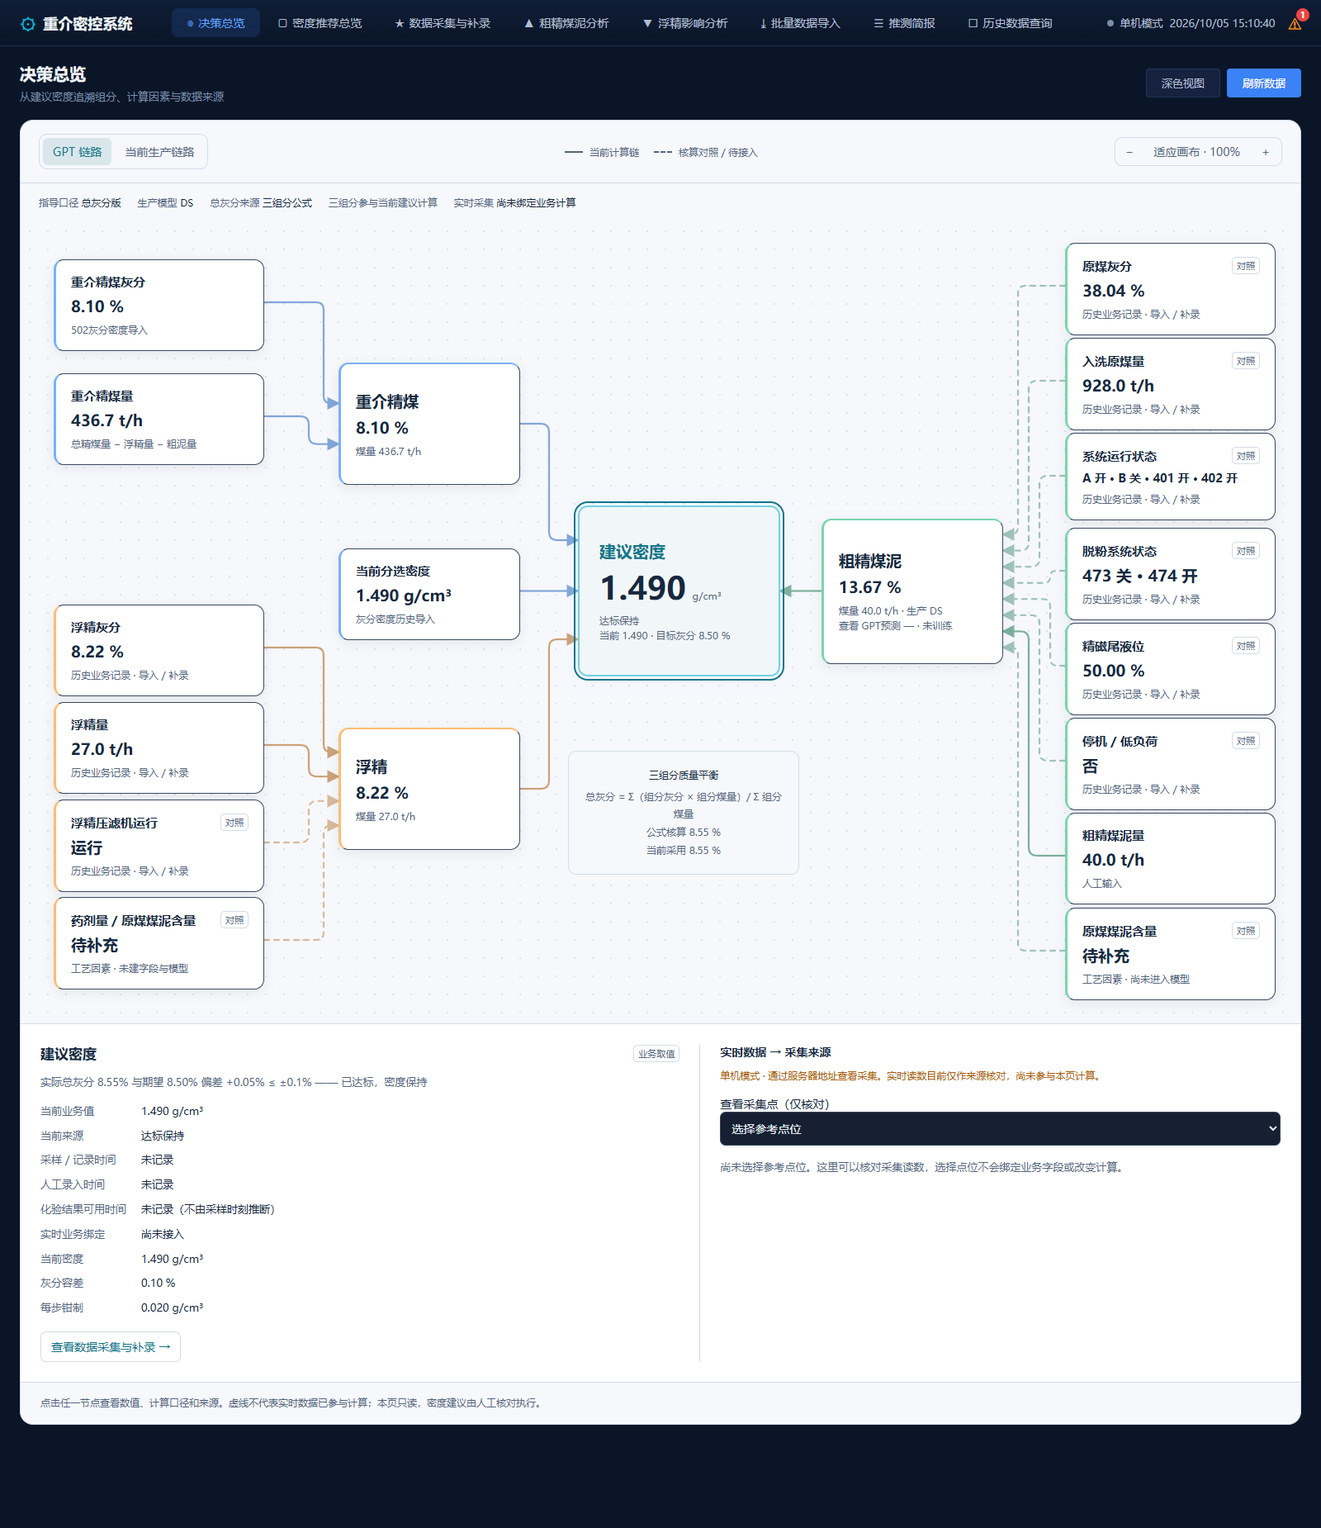
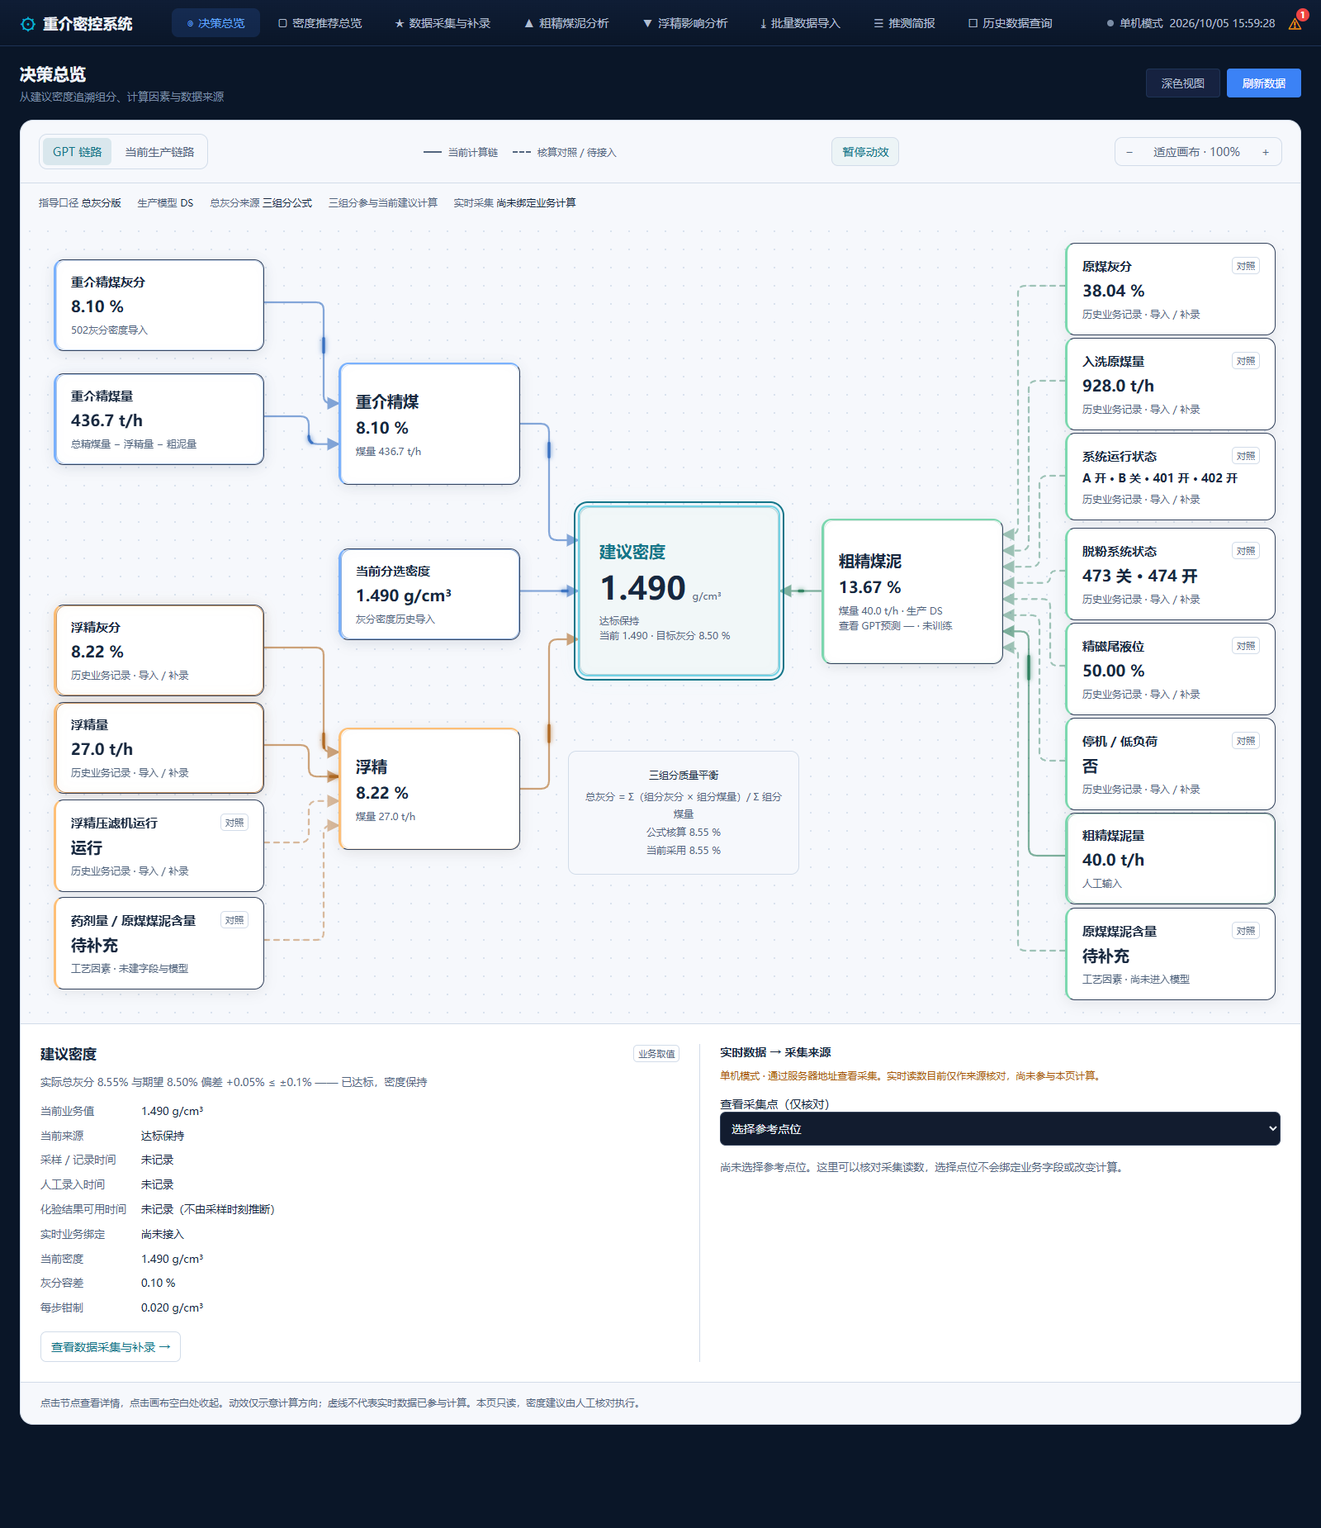
feat: add decision flow motion and canvas dismissal

diff --git a/frontend/js/decision-overview.js b/frontend/js/decision-overview.js
@@ -4,6 +4,7 @@ const DecisionOverviewPage = {
     pointChoices: {}, nodes: [], timer: null,
     sourceInteractionUntil: 0,
     inspectorFrame: null,
+    motionEnabled: true, motionReduced: false,
     escape(value) { return String(value ?? '').replace(/[&<>"']/g, c => ({'&':'&amp;','<':'&lt;','>':'&gt;','"':'&quot;',"'":'&#39;'}[c])); },
     number(value, digits = 2, unit = '') { return Number.isFinite(value) ? value.toFixed(digits) + (unit ? ' ' + unit : '') : '—'; },
     time(value) {
@@ -67,6 +68,13 @@ const DecisionOverviewPage = {
             const light = document.getElementById('decision-workspace').classList.toggle('is-light');
             event.currentTarget.textContent = light ? '深色视图' : '浅色视图';
         });
+        const reducedMotion = window.matchMedia('(prefers-reduced-motion: reduce)');
+        this.motionReduced = reducedMotion.matches;
+        reducedMotion.addEventListener('change', event => { this.motionReduced = event.matches; this.syncMotion(); });
+        document.getElementById('decision-motion').addEventListener('click', () => {
+            this.motionEnabled = !this.motionEnabled; this.syncMotion();
+        });
+        document.addEventListener('visibilitychange', () => this.syncMotion());
         document.querySelectorAll('[data-decision-model]').forEach(button => button.addEventListener('click', () => {
             this.view = button.dataset.decisionModel;
             document.querySelectorAll('[data-decision-model]').forEach(b => {
@@ -78,9 +86,10 @@ const DecisionOverviewPage = {
         document.getElementById('decision-fit').addEventListener('click', () => { this.zoom = null; this.fit(); });
         document.getElementById('decision-zoom-in').addEventListener('click', () => this.changeZoom(.15));
         document.getElementById('decision-zoom-out').addEventListener('click', () => this.changeZoom(-.15));
-        document.getElementById('decision-board').addEventListener('click', event => {
+        document.getElementById('decision-canvas-scroll').addEventListener('click', event => {
             const node = event.target.closest('[data-decision-node]');
-            if (node) this.select(node.dataset.decisionNode);
+            if (node) { this.select(node.dataset.decisionNode); return; }
+            if (!event.target.closest('.decision-formula,button,a,input,select,textarea,label,[contenteditable="true"]')) this.closeInspector(false);
         });
         document.getElementById('decision-inspector').addEventListener('change', event => {
             if (event.target.id === 'decision-source-point') {
@@ -97,7 +106,7 @@ const DecisionOverviewPage = {
         document.getElementById('decision-inspector').addEventListener('click', event => {
             if (event.target.closest('[data-decision-close]')) { this.closeInspector(); return; }
             const link = event.target.closest('[data-decision-page]');
-            if (link) { this.closeInspector(false); App.goToPage(link.dataset.decisionPage); }
+            if (link) { this.closeInspector(false); App.goToPage(link.dataset.decisionPage); this.syncMotion(); }
         });
         document.addEventListener('keydown', event => {
             if (event.key === 'Escape' && this.active()) this.closeInspector();
@@ -108,6 +117,7 @@ const DecisionOverviewPage = {
         document.querySelector('.main-nav').addEventListener('click', event => {
             const page = event.target.closest('[data-page]')?.dataset.page;
             if (page && page !== 'page-decision') this.closeInspector(false);
+            this.syncMotion();
         });
         window.addEventListener('resize', () => { if (this.active()) this.fit(); });
         // Reuse Operations' existing polling snapshot; never start a second API poll.
@@ -118,6 +128,7 @@ const DecisionOverviewPage = {
     },
     refresh() {
         if (!this.initialized) return;
+        this.syncMotion();
         if (!this.active()) { this.closeInspector(false); return; }
         const focused = document.activeElement?.dataset?.decisionNode;
         const sourceFocused = document.activeElement?.id === 'decision-source-point';
@@ -221,6 +232,15 @@ const DecisionOverviewPage = {
         this.queueInspectorPosition(true);
     },
     changeZoom(delta) { this.zoom = Math.max(.65, Math.min(1.5, (this.actualZoom || 1) + delta)); this.fit(); },
+    syncMotion() {
+        const button = document.getElementById('decision-motion');
+        if (!button) return;
+        document.getElementById('decision-workspace').classList.toggle('is-motion-paused', !this.motionEnabled || this.motionReduced || document.hidden || !this.active());
+        button.disabled = this.motionReduced;
+        button.textContent = this.motionReduced ? '静态视图' : this.motionEnabled ? '暂停动效' : '开启动效';
+        button.setAttribute('aria-pressed',String(this.motionEnabled && !this.motionReduced));
+        button.title = this.motionReduced ? '已按系统的减少动态效果设置显示静态视图' : '动效示意计算方向，不代表实时采集正在更新';
+    },
 
     buildNodes(s) {
         const n = (id,title,value,source,description,extra = {}) => ({id,title,value,source,description,unit:'',sampleAt:null,enteredAt:null,...extra});
@@ -363,17 +383,24 @@ const DecisionOverviewPage = {
         const ancestorIds = new Set([this.selected]);
         let current = selected;
         while (current?.parent) { ancestorIds.add(current.parent); current = this.nodes.find(n => n.id === current.parent); }
-        const paths = this.routeConnections().map(({node,parent,path}) => {
+        const flowingIds = new Set(), now = Date.now()/1000;
+        const paths = this.routeConnections().map(({node,parent,path},index) => {
             const highlight = ancestorIds.has(node.id) && ancestorIds.has(parent.id);
-            return `<path class="decision-edge${node.reference ? ' is-reference' : ''}${highlight ? ' is-highlight' : ''}" data-decision-from="${node.id}" data-decision-to="${parent.id}" d="${path}" stroke="${colors[node.family]}" marker-end="url(#decision-arrow-${node.family})"/>`;
+            const flows = !node.reference && node.value !== '—' && parent.value !== '—';
+            if (flows) { flowingIds.add(node.id); flowingIds.add(parent.id); }
+            // Negative phase keeps motion continuous when the five-second snapshot rebuilds the graph.
+            const phase = -((now+index*.37)%4).toFixed(3);
+            const trace = flows ? `<path class="decision-flow${highlight ? ' is-highlight' : ''}" d="${path}" pathLength="100" style="--dm-flow-color:${colors[node.family]};animation-delay:${phase}s"/>` : '';
+            return `<path class="decision-edge${node.reference ? ' is-reference' : ''}${highlight ? ' is-highlight' : ''}" data-decision-from="${node.id}" data-decision-to="${parent.id}" d="${path}" stroke="${colors[node.family]}" marker-end="url(#decision-arrow-${node.family})"/>${trace}`;
         }).join('');
         const markers = Object.entries(colors).map(([key,color]) => `<marker id="decision-arrow-${key}" viewBox="0 0 8 8" refX="7" refY="4" markerWidth="7" markerHeight="7" orient="auto"><path d="M0 0 L8 4 L0 8" fill="${color}"/></marker>`).join('');
-        const cards = this.nodes.map(node => {
+        const cards = this.nodes.map((node,index) => {
             const active = node.id === this.selected;
             const preview = node.id === 'coarse' ? `<span>查看${this.view === 'gpt' ? ' GPT' : '生产'}预测 ${this.number(s.prediction,2,'%')}${!s.model ? ' · 未训练' : s.previewOnly ? ' · 对照' : ' · 未平滑'}</span>` : '';
             const unit = node.id === 'density' ? '<span class="decision-root-unit">g/cm³</span>' : '';
             const sub = node.id === 'density' ? `<span>当前 ${this.number(s.guide.rhoCur,3)} · 目标灰分 ${this.number(s.guide.targetTotal,2,'%')}</span>` : '';
-            return `<button type="button" class="decision-node${active ? ' is-selected' : ''}${node.type === 'root' ? ' decision-root' : node.type === 'component' ? ' decision-component' : ''}" data-decision-node="${node.id}" data-family="${node.family || 'root'}" aria-pressed="${active}" style="left:${node.x}px;top:${node.y}px;width:${node.w}px;min-height:${node.h}px"><span class="decision-node-heading">${this.escape(node.title)}${node.reference ? '<span class="decision-badge">对照</span>' : ''}</span><span class="decision-node-value">${this.escape(node.value)}${unit}</span><span class="decision-node-source"><span>${this.escape(node.source)}</span>${sub}${preview}</span></button>`;
+            const phase = -((now+index*.41)%5).toFixed(3);
+            return `<button type="button" class="decision-node${active ? ' is-selected' : ''}${flowingIds.has(node.id) ? ' has-flow' : ''}${node.type === 'root' ? ' decision-root' : node.type === 'component' ? ' decision-component' : ''}" data-decision-node="${node.id}" data-family="${node.family || 'root'}" aria-pressed="${active}" style="left:${node.x}px;top:${node.y}px;width:${node.w}px;min-height:${node.h}px;--dm-pulse-delay:${phase}s"><span class="decision-node-heading">${this.escape(node.title)}${node.reference ? '<span class="decision-badge">对照</span>' : ''}</span><span class="decision-node-value">${this.escape(node.value)}${unit}</span><span class="decision-node-source"><span>${this.escape(node.source)}</span>${sub}${preview}</span></button>`;
         }).join('');
         document.getElementById('decision-board').innerHTML = `<svg class="decision-edges" aria-hidden="true" viewBox="0 0 1540 970"><defs>${markers}</defs>${paths}</svg>${cards}<div class="decision-formula"><strong>三组分质量平衡</strong>总灰分 = Σ（组分灰分 × 组分煤量）/ Σ 组分煤量<br>公式核算 ${this.number(s.formula,2,'%')}<br>当前采用 ${this.number(s.total.value,2,'%')}</div>`;
     },

diff --git a/frontend/css/decision-overview.css b/frontend/css/decision-overview.css
@@ -14,6 +14,9 @@
 .decision-legend-dashed { border-top-style: dashed; margin-left: 10px; }
 .decision-zoom { display: flex; border: 1px solid var(--dm-border); border-radius: 9px; }
 .decision-zoom button:hover { background: color-mix(in srgb, var(--dm-cyan) 9%, transparent); }
+.decision-motion { border: 1px solid var(--dm-border); background: color-mix(in srgb, var(--dm-cyan) 8%, var(--dm-card)); color: var(--dm-cyan); border-radius: 8px; padding: 7px 12px; font-size: 12px; }
+.decision-motion:hover { border-color: var(--dm-cyan); }
+.decision-motion:disabled { cursor: default; color: var(--dm-muted); background: transparent; }
 .decision-context { display: flex; gap: 8px 20px; flex-wrap: wrap; padding: 14px 22px; color: var(--dm-muted); line-height: 1.6; font-size: 12px; }
 .decision-context strong { color: var(--dm-text); font-weight: 500; }
 .decision-canvas-scroll { overflow: auto; background-image: radial-gradient(var(--dm-grid) 1px, transparent 1px); background-size: 22px 22px; }
@@ -23,19 +26,24 @@
 .decision-edge { fill: none; stroke-width: 2.2; stroke-linecap: round; stroke-linejoin: round; opacity: .55; }
 .decision-edge.is-reference { stroke-dasharray: 6 6; opacity: .4; }
 .decision-edge.is-highlight { opacity: 1; stroke-width: 3; }
+.decision-flow { fill: none; stroke: var(--dm-flow-color); stroke-width: 3.5; stroke-linecap: round; stroke-linejoin: round; stroke-dasharray: 8 92; filter: drop-shadow(0 0 3px var(--dm-flow-color)); opacity: .8; pointer-events: none; animation: decision-flow 4s linear infinite; }
+.decision-flow.is-highlight { stroke-width: 4; opacity: 1; }
+@keyframes decision-flow { from { stroke-dashoffset: 0; } to { stroke-dashoffset: -100; } }
 .decision-edge-label { fill: var(--dm-muted); font-size: 12px; }
 .decision-edge-label-bg { fill: var(--dm-bg); }
-.decision-node { position: absolute; display: flex; flex-direction: column; align-items: stretch; text-align: left; gap: 7px; border: 1px solid var(--dm-border); border-radius: 12px; padding: 16px 18px; background: var(--dm-card); color: var(--dm-text); box-shadow: 0 4px 15px #00000012; transition: border-color .15s, box-shadow .15s; }
-.decision-node:hover { border-color: var(--dm-cyan); }
+.decision-node { --dm-node-accent: var(--dm-cyan); position: absolute; display: flex; flex-direction: column; align-items: stretch; text-align: left; gap: 7px; border: 1px solid var(--dm-border); border-radius: 12px; padding: 16px 18px; background: var(--dm-card); color: var(--dm-text); box-shadow: 0 4px 15px #00000012; transition: border-color .15s, box-shadow .15s; }
+.decision-node:hover { border-color: var(--dm-cyan); box-shadow: 0 4px 18px color-mix(in srgb, var(--dm-node-accent) 16%, transparent); }
+.decision-node.has-flow::after { content: ''; position: absolute; inset: 0; border: 1px solid var(--dm-node-accent); border-radius: inherit; box-shadow: 0 0 16px color-mix(in srgb, var(--dm-node-accent) 18%, transparent), inset 0 0 14px color-mix(in srgb, var(--dm-node-accent) 5%, transparent); pointer-events: none; animation: decision-node-pulse 5s ease-in-out infinite; animation-delay: var(--dm-pulse-delay,0s); }
+@keyframes decision-node-pulse { 0%,100% { opacity: .15; } 50% { opacity: .65; } }
 .decision-node.is-selected { outline: 2px solid var(--dm-cyan); outline-offset: 3px; box-shadow: 0 0 22px #75d5e815; }
 .decision-node-heading { display: flex; justify-content: space-between; align-items: center; gap: 8px; font-size: 15px; font-weight: 600; }
 .decision-node .decision-node-value { font-size: 19px; font-weight: 600; font-variant-numeric: tabular-nums; }
 .decision-node[data-decision-node="system-switches"] .decision-node-value { font-size: 14px; white-space: nowrap; }
 .decision-node-source { color: var(--dm-muted); font-size: 12px; line-height: 1.5; }
 .decision-node-source span { display: block; }
-.decision-node[data-family="heavy"] { border-left: 3px solid var(--dm-blue); }
-.decision-node[data-family="float"] { border-left: 3px solid var(--dm-orange); }
-.decision-node[data-family="coarse"] { border-left: 3px solid var(--dm-green); }
+.decision-node[data-family="heavy"] { --dm-node-accent: var(--dm-blue); border-left: 3px solid var(--dm-blue); }
+.decision-node[data-family="float"] { --dm-node-accent: var(--dm-orange); border-left: 3px solid var(--dm-orange); }
+.decision-node[data-family="coarse"] { --dm-node-accent: var(--dm-green); border-left: 3px solid var(--dm-green); }
 .decision-node.decision-root { border: 2px solid var(--dm-cyan); justify-content: center; gap: 12px; padding: 24px; background: color-mix(in srgb, var(--dm-cyan) 6%, var(--dm-card)); }
 .decision-root .decision-node-heading { font-size: 20px; color: var(--dm-cyan); }
 .decision-root .decision-node-value { font-size: 38px; line-height: 1; }
@@ -72,6 +80,15 @@
 .decision-source-panel .decision-live-state { font-size: 12px; margin-bottom: 14px; color: var(--dm-orange); line-height: 1.7; }
 .decision-unavailable { color: var(--dm-muted); }
 .decision-footnote { padding: 14px 24px; font-size: 12px; color: var(--dm-muted); line-height: 1.8; border-top: 1px solid var(--dm-border); }
+.decision-workspace.is-motion-paused .decision-flow, .decision-workspace.is-motion-paused .decision-node.has-flow::after { animation-play-state: paused; visibility: hidden; }
+#page-decision:not(.active) .decision-flow, #page-decision:not(.active) .decision-node.has-flow::after { animation-play-state: paused; }
+@media (prefers-reduced-motion: reduce) {
+    .decision-flow, .decision-node.has-flow::after { animation: none; visibility: hidden; }
+    .decision-node { transition: none; }
+}
+@media print {
+    .decision-flow, .decision-node.has-flow::after, .decision-motion { display: none; }
+}
 @media (max-width: 800px) {
     .decision-toolbar { padding: 12px; gap: 10px; }
     .decision-legend { width: 100%; order: 3; }

diff --git a/frontend/index.html b/frontend/index.html
@@ -6,7 +6,7 @@
     <title>重介密控系统 - 密度推荐与灰分监控平台</title>
     <link rel="icon" type="image/svg+xml" href="favicon.svg">
     <link rel="stylesheet" href="css/style.css?v=11">
-    <link rel="stylesheet" href="css/decision-overview.css?v=3">
+    <link rel="stylesheet" href="css/decision-overview.css?v=4">
     <!-- 无外部依赖，图表使用纯Canvas 2D绘制 -->
     <script src="js/xlsx-lite.js?v=8"></script>
     <script src="js/chart-lite.js?v=7"></script>
@@ -91,6 +91,7 @@
                         <button type="button" data-decision-model="production" aria-pressed="false">当前生产链路</button>
                     </div>
                     <div class="decision-legend"><span class="decision-legend-solid"></span>当前计算链 <span class="decision-legend-dashed"></span>核算对照 / 待接入</div>
+                    <button type="button" class="decision-motion" id="decision-motion" aria-pressed="true" title="动效示意计算方向，不代表实时采集正在更新">暂停动效</button>
                     <div class="decision-zoom" role="group" aria-label="画布缩放">
                         <button type="button" id="decision-zoom-out" aria-label="缩小">−</button>
                         <button type="button" id="decision-fit">适应画布</button>
@@ -102,7 +103,7 @@
                     <div class="decision-canvas-space" id="decision-canvas-space"><div class="decision-board" id="decision-board"></div></div>
                 </div>
                 <div class="decision-inspector" id="decision-inspector" aria-label="节点详情"></div>
-                <p class="decision-footnote">点击任一节点查看数值、计算口径和来源。虚线不代表实时数据已参与计算；本页只读，密度建议由人工核对执行。</p>
+                <p class="decision-footnote">点击节点查看详情，点击画布空白处收起。动效仅示意计算方向；虚线不代表实时数据已参与计算。本页只读，密度建议由人工核对执行。</p>
             </div>
         </section>
 
@@ -877,7 +878,7 @@
     <script src="js/api.js?v=7"></script>
     <script src="js/app.js?v=86"></script>
     <script src="js/overview.js?v=46"></script>
-    <script src="js/decision-overview.js?v=3"></script>
+    <script src="js/decision-overview.js?v=4"></script>
     <script src="js/collect.js?v=25"></script>
     <script src="js/coarse.js?v=24"></script>
     <script src="js/float.js?v=15"></script>

diff --git a/docs/决策总览使用说明-20261005.md b/docs/决策总览使用说明-20261005.md
@@ -6,7 +6,11 @@
 
 左侧卡片的详情在右侧打开，右侧卡片的详情在左侧打开，中央“建议密度”的详情在下方打开。位置随画布缩放、滚动和窗口尺寸调整，不遮住所选卡片；窄屏侧边空间不足时改为下方。下方空间不足时适度滚动画布，极矮窗口则使用画布下方的详情区域。面板内容较多时可在面板内滚动。
 
-支持深浅色切换、放大缩小和适应画布。点击“收起”或按 Escape 关闭详情；面板中的按钮可进入相关业务页面。所选卡片滚出可见画布或切换页面时自动收起浮动详情。页面显示期间约每五秒更新只读快照，选择采集点时短暂延后刷新以保护操作。
+支持深浅色切换、放大缩小和适应画布。点击画布空白处、点击“收起”或按 Escape 关闭详情；点击节点会查看对应详情，点击详情内容、采集点选择框或工具栏不会误关面板。面板中的按钮可进入相关业务页面。所选卡片滚出可见画布或切换页面时自动收起浮动详情。页面显示期间约每五秒更新只读快照，选择采集点时短暂延后刷新以保护操作。
+
+有效计算连线叠加沿箭头方向流动的光段，对应卡片显示轻微边框呼吸效果；选中链路更醒目，卡片位置和数值文字保持稳定。对照、待接入以及缺少数值的连线保持静态。动效仅示意计算方向，不代表 KEPServer 正在实时更新。
+
+工具栏“暂停动效 / 开启动效”控制装饰动画，开关仅在当前页面内存中保留。切换页面或浏览器页面隐藏时暂停动画；系统开启“减少动态效果”时使用静态视图，打印时也保留静态箭头与数值。
 
 ## 数值与连线含义
 
@@ -33,3 +37,5 @@
 页面截图：[深色](verification/decision-overview-20261005/decision-overview-dark.png)、[浅色](verification/decision-overview-20261005/decision-overview-light.png)。[来源核对示例](verification/decision-overview-20261005/decision-overview-source.png)使用隔离浏览器中的模拟点位，示例值不代表现场数据。
 
 详情定位检查覆盖 1600、1440、1280、800、390 像素窗口宽度：见 [定位记录](verification/decision-overview-20261005/inspector-placement-result.json)。交互截图：[左侧卡片 → 右侧详情](verification/decision-overview-20261005/decision-inspector-right.png)、[右侧卡片 → 左侧详情](verification/decision-overview-20261005/decision-inspector-left.png)、[建议密度 → 下方详情](verification/decision-overview-20261005/decision-inspector-bottom.png)。
+
+空白关闭与动效验收：[交互记录](verification/decision-overview-20261005/interaction-motion-result.json)，覆盖三个弹窗方向、面板操作不误关、暂停恢复、流动方向、静态对照、刷新、页面切换、系统减少动态效果与打印。动效截图：[深色](verification/decision-overview-20261005/decision-flow-dark.png)、[浅色](verification/decision-overview-20261005/decision-flow-light.png)。
